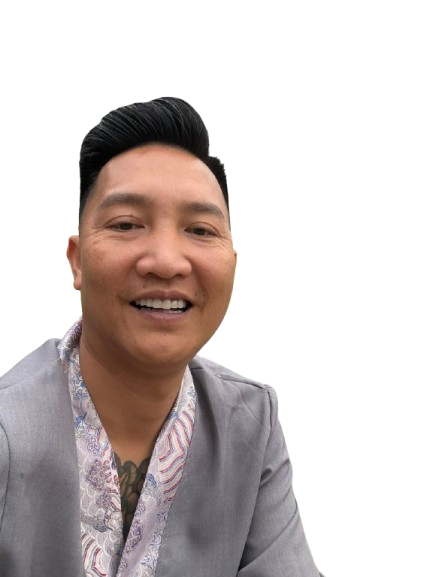
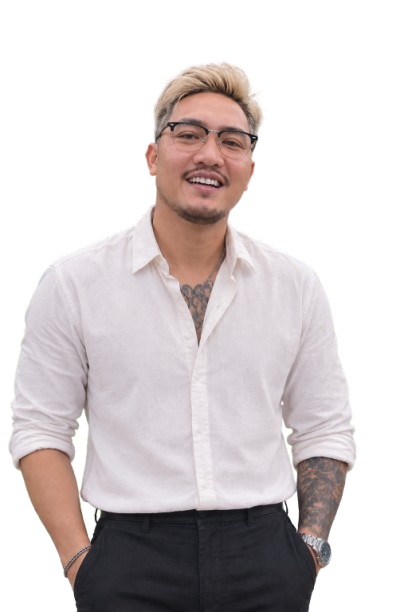
feat(duynk): Update NPC

diff --git a/my-f-life/src/components/game/StoryDialogueEngine.tsx b/my-f-life/src/components/game/StoryDialogueEngine.tsx
@@ -782,7 +782,7 @@ export const StoryDialogueEngine: React.FC<StoryDialogueEngineProps> = ({
           display: 'flex',
           justifyContent: isMobile ? 'center' : 'space-between',
           alignItems: 'flex-end',
-          padding: isMobile ? '0 16px' : '0 80px',
+          padding: isMobile ? '0 16px' : '0 48px',
           pointerEvents: 'none',
           zIndex: 10,
         }}
@@ -819,10 +819,10 @@ export const StoryDialogueEngine: React.FC<StoryDialogueEngineProps> = ({
             </motion.div>
           ) : null
         ) : (
-          /* DESKTOP / TABLET MODE: GROUNDED AT BOTTOM: 0 WITH SPOTLIGHT & DARKENING */
+          /* DESKTOP / TABLET MODE: GROUNDED AT BOTTOM: 0 WITH SPOTLIGHT & DARKENING (25% BIGGER) */
           <>
             {/* LEFT CHARACTERS */}
-            <div style={{ display: 'flex', gap: '30px', alignItems: 'flex-end', alignSelf: 'flex-end' }}>
+            <div style={{ display: 'flex', gap: '24px', alignItems: 'flex-end', alignSelf: 'flex-end' }}>
               {Object.values(stepConfig.characters)
                 .filter((c) => c.side === 'left' && c.sprite)
                 .map((char) => {
@@ -852,8 +852,8 @@ export const StoryDialogueEngine: React.FC<StoryDialogueEngineProps> = ({
                         src={resolveAssetUrl(char.sprite)}
                         alt={char.name}
                         style={{
-                          maxHeight: '74vh',
-                          maxWidth: '340px',
+                          maxHeight: '92vh',
+                          maxWidth: '425px',
                           objectFit: 'contain',
                           display: 'block',
                           verticalAlign: 'bottom',
@@ -866,7 +866,7 @@ export const StoryDialogueEngine: React.FC<StoryDialogueEngineProps> = ({
             </div>
 
             {/* RIGHT CHARACTERS */}
-            <div style={{ display: 'flex', gap: '30px', alignItems: 'flex-end', alignSelf: 'flex-end' }}>
+            <div style={{ display: 'flex', gap: '24px', alignItems: 'flex-end', alignSelf: 'flex-end' }}>
               {Object.values(stepConfig.characters)
                 .filter((c) => c.side === 'right' && c.sprite)
                 .map((char) => {
@@ -896,8 +896,8 @@ export const StoryDialogueEngine: React.FC<StoryDialogueEngineProps> = ({
                         src={resolveAssetUrl(char.sprite)}
                         alt={char.name}
                         style={{
-                          maxHeight: '74vh',
-                          maxWidth: '340px',
+                          maxHeight: '92vh',
+                          maxWidth: '425px',
                           objectFit: 'contain',
                           display: 'block',
                           verticalAlign: 'bottom',
